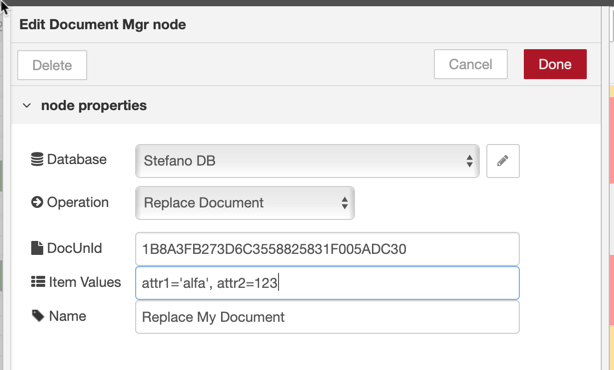
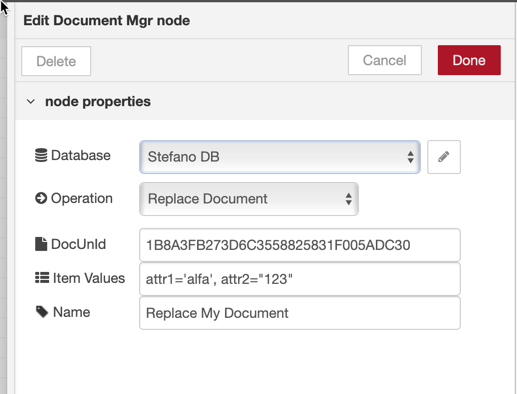
ok

Changed region(s): [[0.0, 0.0, 1.0, 1.0], [0.6499, 0.4459, 0.7118, 0.5351], [0.8665, 0.5649, 0.8975, 0.5946]]

diff --git a/_docs/fullDocumentation/fullDoc-GetDocumentsNode.md b/_docs/fullDocumentation/fullDoc-GetDocumentsNode.md
@@ -4,21 +4,15 @@ permalink: /docs/fullDoc-GetDocumentsNode/
 ---
 
 A node that allows to retrieve documents from a Domino database.<br/>
-The node implements the `bulkReadDocuments API` (to get a list of documents
-using the **Domino Query Language** [language](https://www-01.ibm.com/support/docview.wss?uid=ibm10729047))
-and the `bulkReadDocumentsByUnid API` (to get a list of documents by
-their **unids**) via the <i style="color:red">Type selector</i> in the Configuration Panel or via the `msg.DDB_queryOrId` input parameter (valid values are **query** or **ids**).
+The node implements the `bulkReadDocuments API` (to get a list of documents using the **Domino Query Language** [language](https://www-01.ibm.com/support/docview.wss?uid=ibm10729047)) and the `bulkReadDocumentsByUnid API` (to get a list of documents by their **unids**) via the <i style="color:red">Type selector</i> in the Configuration Panel or via the `msg.DDB_queryOrId` input parameter (valid values are **query** or **ids**).
 
-Clicking on any instance of the node, you can see the online help in the
-rightmost panel of the Node-RED editor:<br/>
+Clicking on any instance of the node, you can see the online help in the rightmost panel of the Node-RED editor:<br/>
 ![](../images/fullDocumentation/image9.png)
 
-The help describes the behavior of the node as well as all the input and
-output parameters for the node itself.
+The help describes the behavior of the node as well as all the input and output parameters for the node itself.
 
 ### Selecting the Domino Server and Database
-You can select the instance of your Domino Database using the
-<i style="color:red">Database selector</i>:<br/>
+You can select the instance of your Domino Database using the <i style="color:red">Database selector</i>:<br/>
 ![](../images/fullDocumentation/image10.png)<br/>
 
 This provides access to the library of **dominodb configurations**.
@@ -27,51 +21,37 @@ This provides access to the library of **dominodb configurations**.
 By means of the <i style="color:red">Type selector</i>, you can choose to retrieve the documents identified by a **DQL Query** or by specifying the list of Unique Ids associated to each document.<br/>
 ![](../images/fullDocumentation/image11.png)
 
-It is, also, possible to configure the node to delegate to the incoming
-`msg.DDB_queryOrIds` attribute the kind of operation to be performed.
-This is useful when, in your flow, you may want to decide which type of
-operation to perform based on the status of your flow (valid values are **query** or **ids**).
+It is, also, possible to configure the node to delegate to the incoming `msg.DDB_queryOrIds` attribute the kind of operation to be performed.
+This is useful when, in your flow, you may want to decide which type of operation to perform based on the status of your flow (valid values are **query** or **ids**).
 -   In this case, you will also have to provide input attributes for the
-    **DQL Query** string (as `msg.DDB_query`) or for the list of Unique
-    Ids (as `msg.DDB_unids`)
+    **DQL Query** string (as `msg.DDB_query`) or for the list of Unique Ids (as `msg.DDB_unids`)
 
 ### DQL Query
 When selecting the **By Query option**, you can specify a valid **DQL Query** (in the following picture `'nodejs'.status = 'pending'`) and the
-list of items (in the following picture `status, customer, description` as
-comma-separated items) to be retrieved.<br/>
+list of items (in the following picture `status, customer, description` as comma-separated items) to be retrieved.<br/>
 ![](../images/fullDocumentation/image12.png)
 -   The <i style="color:red">DQL Query input</i> can be left empty in the editor. You can use the `msg.DDB_query` input attribute to provide the information at runtime.
 -   The <i style="color:red">Results selector</i> allows to define the documents that will be returned.<br/>
     The possible values are:<br/>
     ![](../images/fullDocumentation/image13.png)
     -   **Default**:<br/>
-        In this case the query will be executed without specifying any
-        *start* and *count* parameters. Only those documents which match
-        the default criteria (from index "0" to index "99") will be
-        retrieved
+        In this case the query will be executed without specifying any *start* and *count* parameters. Only those documents which match the default criteria (from index "0" to index "99") will be retrieved
     -   **All Documents**<br/>
         In this case all documents matching the query will be returned.<br/>
-        Be aware that this may be a huge number which may make your
-        NodeRED environment getting out of Memory.
+        Be aware that this may be a huge number which may make your NodeRED environment getting out of Memory.
     -   **By Page**<br/>
-        In this case, you will be asked to specify the *start* and
-        *count* options in order to retrieve "**count documents starting at the start index**"
-        -   The *start* and *count* parameters can also be specified by
-            the incoming `msg.DDB_startValue` and `msg.DDB_countValue`.<br/>
-            The values in the configuration panel override the incoming
-            values.
+        In this case, you will be asked to specify the *start* and *count* options in order to retrieve "**count documents starting at the start index**"
+        -   The *start* and *count* parameters can also be specified by the incoming `msg.DDB_startValue` and `msg.DDB_countValue`.<br/>
+            The values in the configuration panel override the incoming values.
     -   <strong>---set from DDB_displayResults--</strong><br/>
-        The incoming `msg.DDB_displayResults` can be used to provide the
-        information at runtime. Valid values are "**Default**",
-        "**All**" and "**byPage**".
+        The incoming `msg.DDB_displayResults` can be used to provide the information at runtime. Valid values are "**Default**", "**All**" and "**byPage**".
 -   In the above picture, we are using **Defaults Options** for the query.
     You can override them by unchecking the <i style="color:red">Default Options checkbox</i> and specifying different values for the `Max View Entries`, `Max Documents` and `Max Milliseconds` parameters).<br/>
     ![](../images/fullDocumentation/image14.png)
 -   The <i style="color:red">Item Names input</i> can be left empty in the editor. You can use the `msg.DDB_itemNames` input attribute (which is, also, a comma-separated list of unique ids) to provide the information at runtime.
 
 ### Getting documents by Unique Ids
-When selecting the **By UniqueIds option**, you can specify the list of
-Unique Ids (as comma-separated list of items) representing the documents
+When selecting the **By UniqueIds option**, you can specify the list of Unique Ids (as comma-separated list of items) representing the documents
 to be retrieved and the list of items (in the following `picture status, description, customer` as comma-separated items) to be retrieved.<br/>
 ![](../images/fullDocumentation/image15.png)
 -   The <i style="color:red">Doc Ids input</i> can be left empty in the editor. You can use the `msg.DDB_unids` input attribute (which is, also, a comma-separated list of unique ids) to provide the information at runtime
@@ -84,9 +64,10 @@ outputs will be provided:
 
 ![](../images/fullDocumentation/image18.png)
 
-The `DDB_docs` array provides a list of Objects which include the values
-of the items you specified for your request. <br />
-The `DDB_result` object contains the additional outputs provided by the
-API, including the total number of documents matching the query, the
+
+The `msg.DDB_docs` array provides a list of Unique Ids representing the documents that have been deleted or the items of which have been
+deleted.
+
+The `msg.DDB_result` object contains the additional outputs provided by the API, including the total number of documents matching the query, the
 start index and the count value.<br/>
 ![](../images/fullDocumentation/image19.png)

diff --git a/_docs/fullDocumentation/fullDoc-DocumentMgrNode.md b/_docs/fullDocumentation/fullDoc-DocumentMgrNode.md
@@ -13,12 +13,10 @@ This module implements the following new **NodeJS APIs**
 -   `delete`
 -   `deleteItems`
 
-Clicking on any instance of the node, you can see the online help in the
-rightmost panel of the Node-RED editor:<br/>
+Clicking on any instance of the node, you can see the online help in the rightmost panel of the Node-RED editor:<br/>
 ![](../images/fullDocumentation/image47.png)
 
-The help describes the behavior of the node as well as all the input and
-output parameters for the node itself.
+The help describes the behavior of the node as well as all the input and output parameters for the node itself.
 
 ### Selecting the Domino Server and Database
 You can select the instance of your Domino Database using the <i style="color:red">Database selector</i>:<br/>
@@ -31,17 +29,14 @@ By means of the <i style="color:red">Operation selector</i>, you can choose whic
 
 ![](../images/fullDocumentation/image49.png)
 
-It is, also, possible to configure the node to delegate to the incoming
-`msg.DDB_documentOp` attribute the kind of operation to be performed.<br/>
-This is useful when, in your flow, you may want to decide which type of
-operation to perform based on the status of your flow. The accepted values for this attribute are **read**, **create**, **delete**,**replace**, **replaceItems** and **deleteItems**
+It is, also, possible to configure the node to delegate to the incoming `msg.DDB_documentOp` attribute the kind of operation to be performed.<br/>
+This is useful when, in your flow, you may want to decide which type of operation to perform based on the status of your flow. The accepted values for this attribute are **read**, **create**, **delete**,**replace**, **replaceItems** and **deleteItems**
 
 ## Read Document
 
 ![](../images/fullDocumentation/image50.png)
 
-When selecting the **Read Document option**, you can specify a valid
-**document id** (in the above picture `1B8A3FB273D6C3558825831F005ADC30`)
+When selecting the **Read Document option**, you can specify a valid **document id** (in the above picture `1B8A3FB273D6C3558825831F005ADC30`)
 and the list of items (in the following picture `status, customer, amount, description` as comma-separated items) to be retrieved.
 -   The <i style="color:red">DocUnid input</i> can be left empty in the editor. You can use the `msg.DDB_unid` input attribute to provide the information at runtime.
 -   The <i style="color:red">Item Names input</i> can be left empty in the editor. You can use the `msg.DDB_itemNames` input attribute (which is, also, a comma-separated list of unique ids) to provide the information at runtime
@@ -57,11 +52,11 @@ The `msg.DDB_unid` is the unique Id of the document that has been retrieved.
 
 ![](../images/fullDocumentation/image52.png)
 
-When selecting the **Replace Document option**, you can specify a valid
-**document id** (in the above picture `1B8A3FB273D6C3558825831F005ADC30`)
-and the comma-separated list of **itemName/itemValues pairs** (in the
-following picture `attr1='alfa', attr2=123`) to replace the existing
-items for the selected Document.
+When selecting the **Replace Document option**, you can specify a valid **document id** (in the above picture `1B8A3FB273D6C3558825831F005ADC30`)
+and the comma-separated list of **itemName = 'itemValue'** pairs (in the above picture `attr1='alfa', attr2="123"`) to replace the existing
+items for the selected Document. The comma-separated list of **itemName = "itemValue"** pairs contains the items that will be replaced for the selected Document.<br>
+Note that the **itemValue** needs to be <b style="color:red">mandatorily</b> included in single or double quotes.
+
 -   The <i style="color:red">DocUnid input</i> can be left empty in the editor. You can use the `msg.DDB_unid` input attribute to provide the information at runtime.
 -   The <i style="color:red">Item Values input</i> can be left empty in the editor. You can use the `msg.DDB_itemValues` input attribute. This attribute is an array of objects formatted in the following way:<br/>
     ![](../images/fullDocumentation/image53.png)
@@ -70,8 +65,7 @@ The output is represented here:
 
 ![](../images/fullDocumentation/image54.png)
 
-The `msg.DDB_doc` is an object representing the document that has been
-replaced, including all the items you asked to replace. <br/>
+The `msg.DDB_doc` is an object representing the document that has been replaced, including all the items you asked to replace. <br/>
 The `msg.DDB_unid` is the unique Id of the document that has been replaced.
 
 ## Replace Items
@@ -85,8 +79,7 @@ The behavior, in this case, is very similar to the one of the **Replace Document
 
 ![](../images/fullDocumentation/image55.png)
 
-When selecting the **Delete Document option**, you can specify a valid
-**document id** (in the above picture `B1B5B6A6D2D1A991882583440056F01C`).
+When selecting the **Delete Document option**, you can specify a valid **document id** (in the above picture `B1B5B6A6D2D1A991882583440056F01C`).
 -   The <i style="color:red">DocUnid input</i> can be left empty in the editor. You can use the `msg.DDB_unid` input attribute to provide the information at runtime.
 
 The output is represented here:
@@ -107,10 +100,8 @@ The output is represented here:
 
 ![](../images/fullDocumentation/image62.png)
 
-The `msg.DDB_doc` is an object representing the document whose items have
-been deleted. <br />
-The `msg.DDB_unid` is the unique Id of the document whose items have been
-deleted.
+The `msg.DDB_doc` is an object representing the document whose items have been deleted. <br />
+The `msg.DDB_unid` is the unique Id of the document whose items have been deleted.
 
 ## Create Document
 
@@ -124,6 +115,5 @@ The output is represented here:
 
 ![](../images/fullDocumentation/image58.png)
 
-The `msg.DDB_doc` is an object representing the document that has been
-created, including all the items you asked to create. <br />
+The `msg.DDB_doc` is an object representing the document that has been created, including all the items you asked to create. <br />
 The `msg.DDB_unid` is the unique Id of the document that has been created.

diff --git a/_docs/fullDocumentation/fullDoc-ReplaceDocumentsNode.md b/_docs/fullDocumentation/fullDoc-ReplaceDocumentsNode.md
@@ -57,7 +57,7 @@ If you elected to replace entire documents, you will see the following panel:
 
 Apparently, you cannot specify which Documents you actually want to replace. This is normal.<br/>
 Actually, the API that will be used when you elected to be in this situation is the `bulkReplaceDocumentsByUnid API`. This API accepts an array of objects, where each object holds the `@unid` attribute in addition to the name and values of the other items that will be assigned to the new Domino documents that will replace the old ones.<br/>
-It is not really simple to write a complex array of JSON objects in an input text. So, the `msg.DDB\_itemValuesById` input attribute will be used.
+It is not really simple to write a complex array of JSON objects in an input text. So, the `msg.DDB_itemValuesById` input attribute will be used.
 
 Here below is a simple example of how this attribute can be built by a
 **Function Node** and passed to **the Replace Doc/Items node**.
@@ -70,8 +70,8 @@ If you want to replace items within documents by specifying a **DQL Query**, you
 
 ![](../images/fullDocumentation/image26.png)
 
-You can specify a valid **DQL Query** (in the above picture `'nodejs'.status = 'pending'` ) and a comma-separated list of **itemName = "itemValue"** pairs (in the above picture `customer="Mickey", amount=123`). The comma-separated list of **itemName = "itemValue"** pairs contains the items that will be replaced for all Documents matching the DQL query.<br>
-Note that the **itemValue** needs to be <b style="color:red">mandatorily</b> included in single or double quotes (unlike the picture above)
+You can specify a valid **DQL Query** (in the above picture `'nodejs'.status = 'pending'` ) and a comma-separated list of **itemName = "itemValue"** pairs (in the above picture `customer="Mickey", amount='1234'`). The comma-separated list of **itemName = "itemValue"** pairs contains the items that will be replaced for all Documents matching the DQL query.<br>
+Note that the **itemValue** needs to be <b style="color:red">mandatorily</b> included in single or double quotes.
 
 -   The *DQL Query input* can be left empty in the editor. You can use the `msg.DDB_query` input attribute to provide the information at runtime.
 
@@ -107,8 +107,8 @@ If you want to replace items within documents by specifying a list of **unique I
 
 ![](../images/fullDocumentation/image28.png)
 
-You can specify a comma-separated list of **itemName = "itemValue"** pairs (in the above picture `customer="MICKEY", amount=123`).<br>
-Note that the **itemValue** needs to be <b style="color:red">mandatorily</b> included in single or double quotes (unlike the picture above)
+You can specify a comma-separated list of **itemName = "itemValue"** pairs (in the above picture `customer="Mickey", amount='1234'`).<br>
+Note that the **itemValue** needs to be <b style="color:red">mandatorily</b> included in single or double quotes.
 
 -   The *Item Values input* field defines the changed attributes that will apply to all the selected documents.
 -   The *Item Values input* can be left empty in the editor. You can use the `msg.DDB_itemValues` input attribute (which is an array of JSON objects formatted in the following way:<br/>

diff --git a/_docs/Article/article-sample.md b/_docs/Article/article-sample.md
@@ -88,7 +88,7 @@ We added a **Function Node** named *"Extract Seller"*.
 This node contains a simple Javascript fragment to:
 -   Extract the *seller* and *@unid* information from each of the results coming from the **"My Quotes App" node**
 -   Create an object (outMsg) that will be passed to the IBM Connections **Get Profiles node**.<br />
-    Actually the outMsg.DDB\_unid attribute is inserted in order for the Get Profiles node to transparently pass it further: we will need this information to update the Domino record later!
+    Actually the `outMsg.DDB_unid` attribute is inserted in order for the Get Profiles node to transparently pass it further: we will need this information to update the Domino record later!
 
 We also added an IBM Connections **Get Profile node** which is configured in this way:
 
@@ -120,18 +120,18 @@ We added a **Function node** (named "*Extract Name*") which is configured as fol
 
 ![](../images/article/image16.png)
 
-The msg.DDB\_itemValues adds the *Name* property (with a value coming from the **Get Person Name node**).<br />
+The `msg.DDB_itemValues` adds the *Name* property (with a value coming from the **Get Person Name node**).<br />
 This information is passed to the "**add Name attribute" node** which is configured as follows:
 
 ![](../images/article/image17.png)
 
-This node gets the *Item Values* and the *DocUnid* values from the output of the previous node (msg.DDB\_itemValues and msg.DDB\_unid) and hides the complexity of using the **"domino-db NPM"** API directly!
+This node gets the *Item Values* and the *DocUnid* values from the output of the previous node (`msg.DDB_itemValues` and `msg.DDB_unid`) and hides the complexity of using the **"domino-db NPM"** API directly!
 
 Let's hit the **Deploy button** and execute again the flow (by clicking on the **purple square** on the left of the **Inject node**). The results will be shown here:
 
 ![](../images/article/image18.png)
 
-For each Document in the Domino database, we added the *Name* attribute. The msg.DDB\_doc output attribute (highlighted in the above picture) confirms that a new Name attribute was added to the Domino Document.
+For each Document in the Domino database, we added the *Name* attribute. The `msg.DDB_doc` output attribute (highlighted in the above picture) confirms that a new Name attribute was added to the Domino Document.
 
 Note: we could have done the whole operation in Bulk, but this would have made this simple example a little bit more complex and outside of its scope.
 
